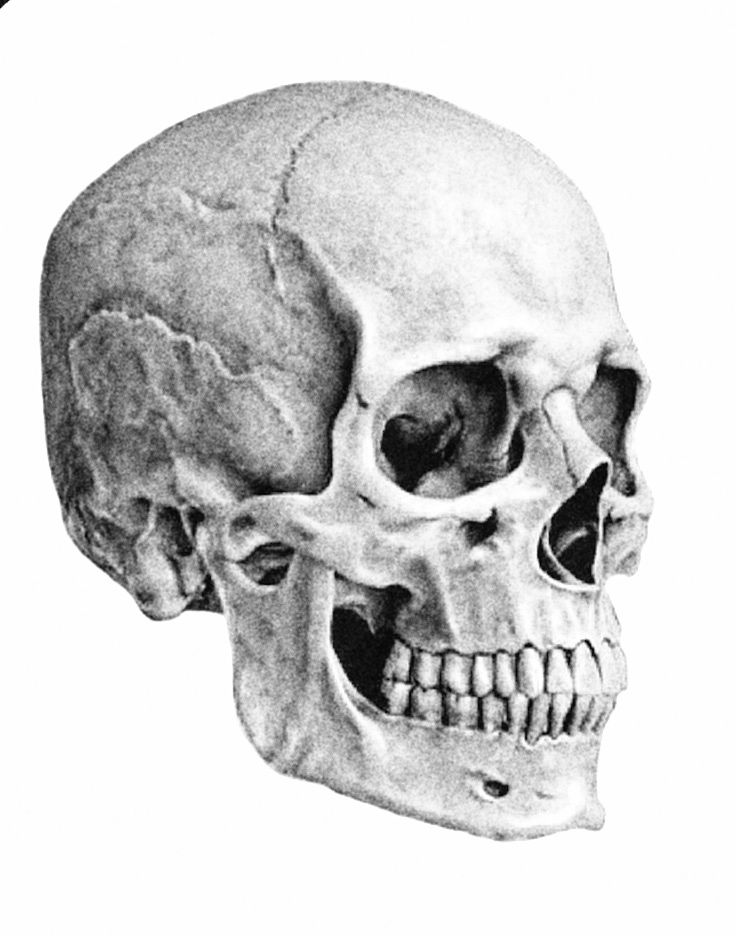
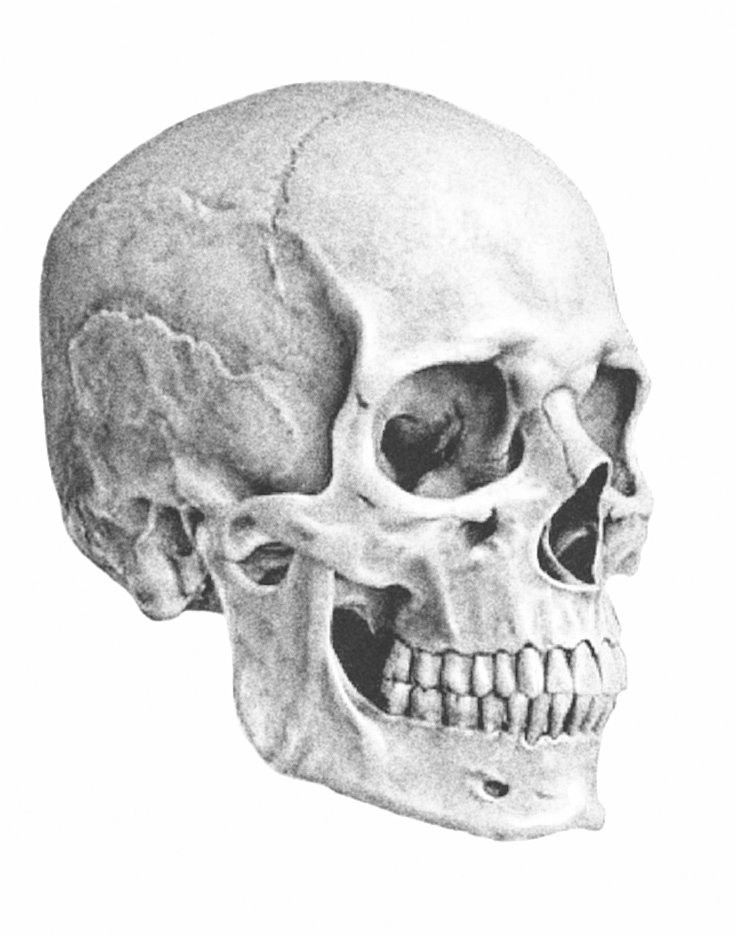
smaller skull on white

diff --git a/css/style.css b/css/style.css
@@ -123,7 +123,7 @@ body.light-mode {
   background-image: url(skull45-white.jpg);
   background-position: center center;
   background-repeat: no-repeat;
-  background-size: contain;
+  background-size: 40%;
   color: #000;
 
 }
